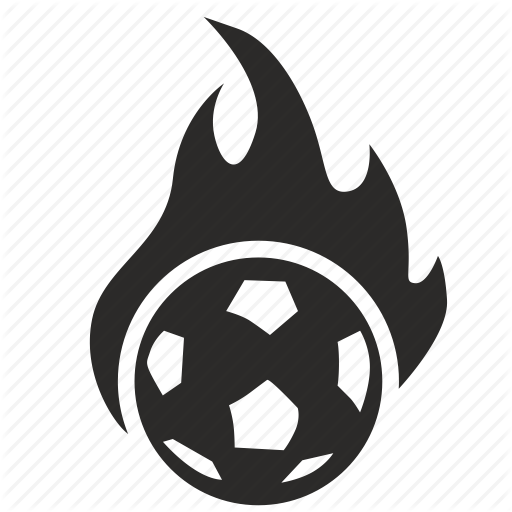
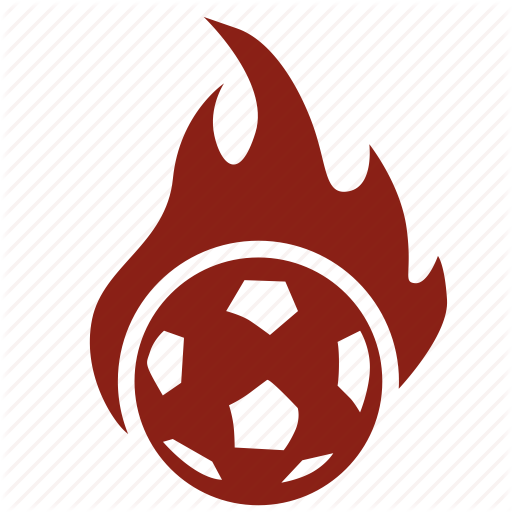
styles update. (David Perdomo y David Hormaza)

diff --git a/picaditosf/src/Components/perfil/Mensaje.js b/picaditosf/src/Components/perfil/Mensaje.js
@@ -2,7 +2,9 @@ import React,{ Component } from 'react'
 import { Switch, Route } from 'react-router-dom'
 import { Link } from 'react-router-dom'
 import '../../styles/styles.css'
+import session from '../../Reducers/sessionReducer';
 
+import swal from 'sweetalert2'
 //fecha , contenido , usuario_2_name ,user_id , asunto 
 // The Roster component matches one of two different routes
 // depending on the full pathname
@@ -34,10 +36,10 @@ class mensaje extends Component {
     super(props);
     
     this.state = {
-      fecha: '2014-04-04',
+      fecha: '2018-04-04',
       contenido: '',
       usuario_2_name: '',
-      user_id:'Malphite',
+      user_id: JSON.parse(sessionStorage.user).user_name,
       asunto:''
     }
     
@@ -72,9 +74,16 @@ class mensaje extends Component {
     this.createMessage().then(res => {
     	console.log(res)
     	if (res.status==500){
-    	}else{
     		var msg = "No se pudo enviar el mensaje "
     		alert(msg)
+    	}else{
+	    	swal(
+				"Mensaje enviado correctamente",
+				"continue",
+				"success"
+				).then((value) => {
+					window.location.reload()
+			})
     	}
    })
     
@@ -89,7 +98,7 @@ class mensaje extends Component {
 					<h1>Nuevo Mensaje</h1>
 					<form className="form1" onSubmit={this.onSubmit}>
 						<label htmlFor="name">Destinatario</label>
-						<input placeholder="Example usuario" 
+						<input placeholder="example_usuario" 
 							name="usuario_2_name" 
 		          type='eusuario_2_name' 
 		          onChange={event => this.setState({usuario_2_name: event.target.value})}
@@ -98,7 +107,7 @@ class mensaje extends Component {
 							required/>
 
 						<label htmlFor="psw">Asunto</label>
-						<input placeholder="emmm no se" 
+						<input placeholder="Asunto" 
 							name="asunto" 
 							type='text' 
 		          onChange={event => this.setState({asunto: event.target.value})}
@@ -107,7 +116,7 @@ class mensaje extends Component {
 							required/>
 
 						<label htmlFor="psw">Contenido</label>
-						<textarea rows="5" placeholder="Hola soy un mensaje"
+						<textarea rows="5" placeholder="Escribe tu mensaje"
 							name="contenido" 
 							type='text' 
 		          onChange={event => this.setState({contenido: event.target.value})}

diff --git a/picaditosf/src/Components/Header.js b/picaditosf/src/Components/Header.js
@@ -37,7 +37,7 @@ class Header extends Component {
         <header>
           <nav className="navbar navbar-expand-md navbar-dark fixed-top bg-success">
             <Link className="navbar-brand" to='/'>Picaditos!</Link>
-            <button onClick={this.test}>test</button> 
+            <button className="btn btn-warning test-btn" onClick={this.test}>test</button> 
             <button className="navbar-toggler" type="button" data-toggle="collapse" data-target="#navbarCollapse" aria-controls="navbarCollapse" aria-expanded="false" aria-label="Toggle navigation">
               <span className="navbar-toggler-icon"></span>
             </button>
@@ -60,11 +60,12 @@ class Header extends Component {
                 </li>
               </ul>
               <form className="form-inline mt-2 mt-md-0">
-                <Link onClick={this.logout} className="nav-link" to="/login">log out</Link>
-                <input className="form-control mr-sm-2" type="text" placeholder="Search" aria-label="Search"/>             
+                <input className="form-control mr-sm-2" type="text" placeholder="Search" aria-label="Search"/>  
                 <a href="#" className="btn">
                   <img src="https://cdn4.iconfinder.com/data/icons/glyphs/24/icons_search-128.png" width="25"/>
                 </a>
+                <Link onClick={this.logout} className="nav-link" to="/login">
+                  <button className="btn btn-danger">Cerrar sesión</button></Link>
               </form>
             </div>
           </nav>
@@ -75,7 +76,7 @@ class Header extends Component {
         <header>
             <nav className="navbar navbar-expand-md navbar-dark fixed-top bg-success">
               <Link className="navbar-brand" to='/'>Picaditos!</Link>
-              <button onClick={this.test}>test</button> 
+              <button className="btn btn-warning test-btn" onClick={this.test}>test</button> 
               <button className="navbar-toggler" type="button" data-toggle="collapse" data-target="#navbarCollapse" aria-controls="navbarCollapse" aria-expanded="false" aria-label="Toggle navigation">
                 <span className="navbar-toggler-icon"></span>
               </button>

diff --git a/picaditosf/src/Components/perfil/Perfil.js b/picaditosf/src/Components/perfil/Perfil.js
@@ -13,19 +13,15 @@ export default class Perfil extends Component {
   componentDidMount() {
           setTimeout(() => this.setState({ isLoading: false }), 500);
       }
-  
-   
-  
 
  render() {
     if(this.state.isLoading){ 
     return (<div>
-    
         {Example}
-    
         </div>); // render the loading component
     }
-  	 	
+  	
+  	let names = JSON.parse(sessionStorage.user).nombres + " " + JSON.parse(sessionStorage.user).apellidos
   	 	
     return (
     <div>	
@@ -35,19 +31,25 @@ export default class Perfil extends Component {
 		  	<div className="col-md-2">
 		  		<img src={require('../../imagenes/perfil.jpg')} className="img-responsive profile-img"/>
 		  	</div>
-		  	<div className="col-md-6">
-		  		<h1>{JSON.parse(sessionStorage.user).nombres}</h1>
-		  		<h4>{JSON.parse(sessionStorage.user).user_name}</h4>
-		  	</div>
-		  	<div className="col-md-2">		  		
-		  		<Link to='/edit_perfil'>
-		  			<button className="btn">Editar Perfil</button>
-		  		</Link>
-		  	</div>
-		  	<div className="col-md-2">
-		  		<Link to='/Configuracion'>
-		  			<button className="btn">Configuración</button>
-		  		</Link>
+		  	<div className="col-md-10">
+			  	
+			  	<div className="row">
+			  	
+			  		<h1>{JSON.parse(sessionStorage.user).nombres}</h1>
+						<div className="prf-btns">
+				  		<Link to='/editperfil'>
+				  			<button className="btn btn-info prf-btn">Editar Perfil</button>
+				  		</Link>
+				  		
+				  		<Link to='/Configuracion'>
+				  			<button className="btn btn-warning prf-btn">Configuración</button>
+				  		</Link>	
+						</div>
+			  	</div>
+			  	
+			  	<div className="row">
+					<h4>@{JSON.parse(sessionStorage.user).user_name}</h4>
+		  		</div>
 		  	</div>
 		 	</div>
 	  </div>

diff --git a/picaditosf/src/styles/styles.css b/picaditosf/src/styles/styles.css
@@ -17,7 +17,7 @@ a:hover {
   /* Set the fixed height of the footer here */
   height: 50px;
   line-height: 50px; /* Vertically center the text there */
-  background-color:  rgba(36, 165, 38, 0);
+  background-color:  rgba(0, 0, 0, 0);
   color: white;
 }
 
@@ -28,6 +28,11 @@ LANDING STYLES
 h1{
 	color: white;
 	font-weight: bold;
+	margin-bottom: 30px;
+}
+
+h4,h3 {
+  color:white;
 }
 
 .btn-secondary,
@@ -40,24 +45,36 @@ h1{
 }
 
 .logo1{
-	margin-top: 50px;
+	margin: 5px;
 	width: 100px;
 }
 
+.idx-btn{
+  min-width: 120px;
+  margin: 10px;
+}
 /*
 LOGIN STTYLES
 */
 
 .cont_1{	
-	background-color: rgba(36, 165, 38, 0.5);
-	max-width: 550px;
-	padding: 50px;
+	background-color: rgba(0, 0, 0, 0.8);
+	max-width: 650px;
+	min-height: 520px;
+	max-height: 750px;
+	padding: 40px;
 	margin: auto;
-	margin-top: 100px;
+	margin-top: 80px;
+	margin-bottom: 30px;
+	color: #EBEBEB;
 }
 
 .cont_1 p {
 	text-align: center;
+	color: #EBEBEB;
+	font-size:  18px;
+	margin-top: 10px;
+	margin-bottom: 10px;
 }
 .btn-google {
 	  background: #E93F2E;
@@ -157,7 +174,7 @@ LOGIN
 SITE
 */
 .cont_2{	
-	background-color: rgba(36, 165, 38, 0.5);
+	background-color: rgba(0, 0, 0, 0.8);
 	max-width: 800px;
 	min-width: 	400px;
 	padding: 40px;
@@ -183,6 +200,12 @@ SITE
 	margin-top: 50px;
 }
 
+.prf-btns{
+  margin-left: 20px;
+}
+.prf-btn {
+  margin: 5px;
+}
 
 /*temp*/
 .carousel { z-index: -99; 
@@ -200,7 +223,7 @@ SITE
 
 
 .Footerfont{
-	background-color: rgba(36, 165, 38, 1);
+	background-color: rgba(0, 0, 0, 1);
 	width:100%;
 	padding: 5;
 	height:40px;

diff --git a/picaditosf/src/Components/Register.js b/picaditosf/src/Components/Register.js
@@ -12,13 +12,13 @@ class Register extends Component{
 	constructor(props){
     super(props);
     this.state = {
-      user_name: 'daes1',
-      nombres: 'Dav',
-      apellidos: 'Est',
-      email:'davidemail@unal.com',
-      fecha_nacimiento:'1990-06-06',
-      password: '123456',
-      password_confirmation: '123456'
+      user_name: '',
+      nombres: '',
+      apellidos: '',
+      email:'',
+      fecha_nacimiento:'',
+      password: '',
+      password_confirmation: ''
     }
     this.onSubmit = this.onSubmit.bind(this);
   }
@@ -93,7 +93,7 @@ class Register extends Component{
 		return (
 			<div className="text-center">
 				<div className="cont_1">
-					<h1>Juega con Picaditos!</h1>
+					<h1>Registrarse</h1>
 					<form className="form1" onSubmit={this.onSubmit}>
 						<label htmlFor="name">Correo electronico</label>
 						<input placeholder="Enter Email" 
@@ -163,7 +163,7 @@ class Register extends Component{
 		         		<input type="checkbox" value="remember-me"/>Remember me
 		       	 	</label>
 		     		</div>
-						<button type="submit" className="btn btn-lg btn-primary btn-block">Crear cuenta</button>
+						<button type="submit" className="btn btn-lg btn-success btn-block">Crear cuenta</button>
 					</form>  	
 				</div>
 			</div>

diff --git a/picaditosf/src/Components/Inicio.js b/picaditosf/src/Components/Inicio.js
@@ -25,14 +25,15 @@ const Inicio = () => (
 			  <img className="logo1" src={require('../imagenes/ball-fire.png')} />
         <h1>PICADITOS</h1>
         <p className="lead">        
-					Registrate como jugador para obtener calificación de otros usuarios, compartir disponibilidad de tiempo para jugar y estadísticas<br/>
-					Crea equipos, añade miembros y buscar jugadores.<br/>
-					Consulta canchas disponibles para jugar</p>
+					<b>Regístrate como jugador para obtener calificación de otros usuarios, compartir disponibilidad de tiempo para jugar y estadísticas</b><br/><br/>
+					<b>Crea equipos, añade miembros y busca jugadores!</b><br/><br/>
+					<b>Consulta canchas disponibles para jugar!</b>
+				</p>
         <p className="lead">
           <Link to='/login' >
-          	<button className="btn btn-lg btn-secondary">Login</button></Link>	
+          	<button className="btn btn-lg btn-success idx-btn">Ingresa</button></Link>	
 		   		<Link to='/register'>
-		   			<button className="btn btn-lg btn-secondary">Registro</button></Link>
+		   			<button className="btn btn-lg idx-btn">Registrate</button></Link>
         </p>
       </div>
      </div>

diff --git a/picaditosf/src/Components/Login.js b/picaditosf/src/Components/Login.js
@@ -68,7 +68,8 @@ class Login extends Component {
     var datauser = googleUser.getBasicProfile();
     //console.log("datagoogl",response)
     var user = {
-          user_name: datauser.getName(),
+          user_name: datauser.getGivenName(),
+ //         user_name: datauser.getName(),
           nombres: datauser.getGivenName(),
           apellidos: datauser.getFamilyName(),
           email: datauser.getEmail()
@@ -78,12 +79,17 @@ class Login extends Component {
       console.log("res",res)
     }
     )
-    
-    
     console.log({accessToken: id_token});
     console.log("datag",datauser)
     sessionStorage.setItem('jwt', id_token);
     sessionStorage.setItem('user',JSON.stringify(user));
+    swal(
+			"Ha ingresado correctamente",
+			"continue",
+			"success"
+			).then((value) => {
+				window.location.reload()
+		})
   }
 
   
@@ -92,6 +98,7 @@ class Login extends Component {
   render() {
     return (
       <div className="cont_1">
+        <h1 className="text-center">Iniciar sesión</h1>
         <form onSubmit={this.handleSubmit}>
           <label htmlFor="name">Correo electronico</label>
           <input placeholder="Enter Email" 

diff --git a/picaditosf/src/index.css b/picaditosf/src/index.css
@@ -2,7 +2,8 @@ body {
   margin: 0;
   padding: 0;
   background-color: green;
-  background-image: url("http://moziru.com/images/feilds-clipart-lawn-8.jpg");
- /*  background-image: url("https://i.pinimg.com/originals/c2/75/33/c2753303832db57412627f5ca4534a19.jpg");*/
+  /*background-image: url("http://moziru.com/images/feilds-clipart-lawn-8.jpg");*/
+  /*background-image: url("http://eaglesoccercamps.com/wp-content/uploads/2018/01/cropped-Soccer-Field-Night-2.jpg");*/
+   background-image: url("https://i.pinimg.com/originals/c2/75/33/c2753303832db57412627f5ca4534a19.jpg");
 }
 

diff --git a/picaditosf/src/styles/navstyles.css b/picaditosf/src/styles/navstyles.css
@@ -9,7 +9,7 @@ body {
   margin-bottom: 60px;
 }
 .bg-success{
-  background-color: rgba(36, 165, 38, 1)!important;
+  background-color: rgba(0, 0, 0, 1)!important;
 }
 /* Custom page CSS
 -------------------------------------------------- */
@@ -26,4 +26,9 @@ body > .container {
 
 code {
   font-size: 80%;
+}
+/*
+*/
+test-btn{
+  border-radius: 50%;
 }
